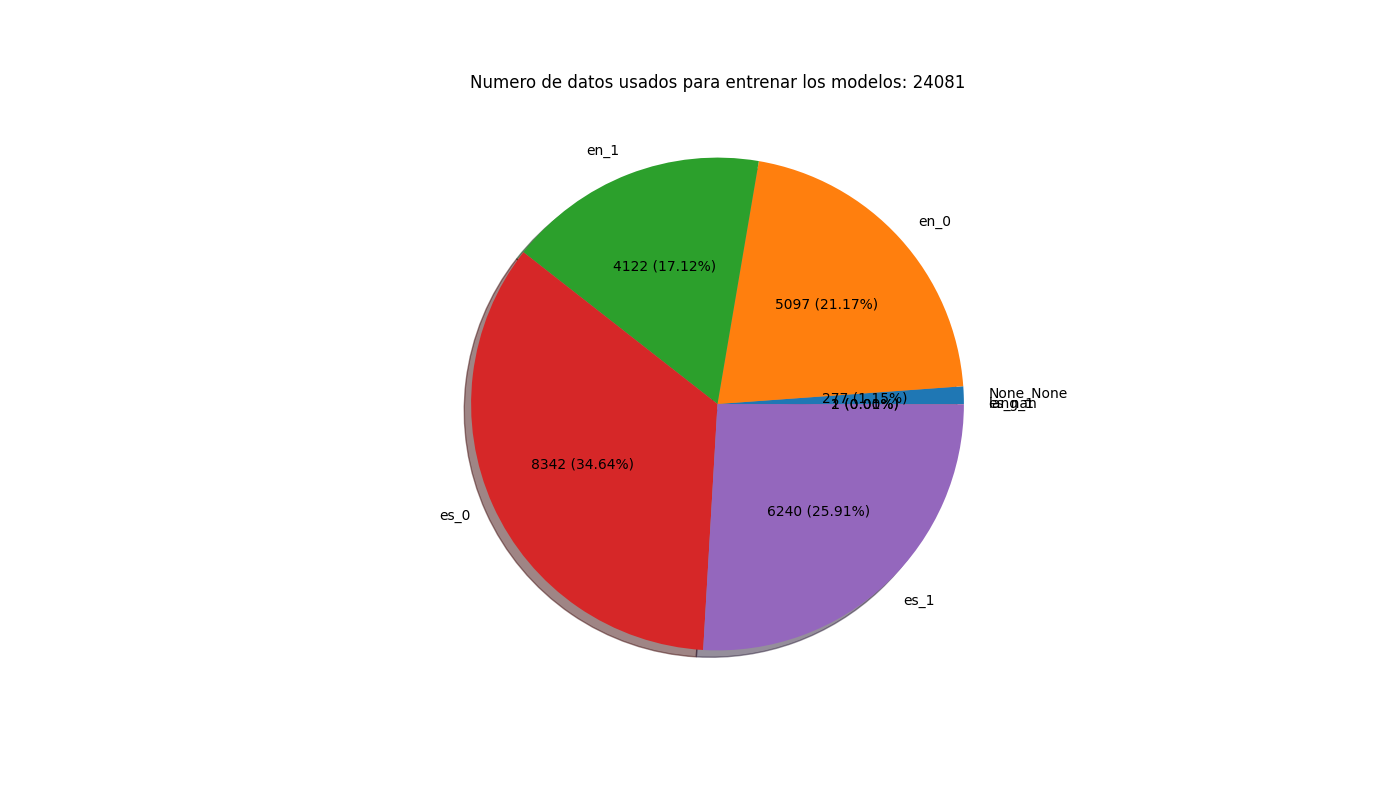
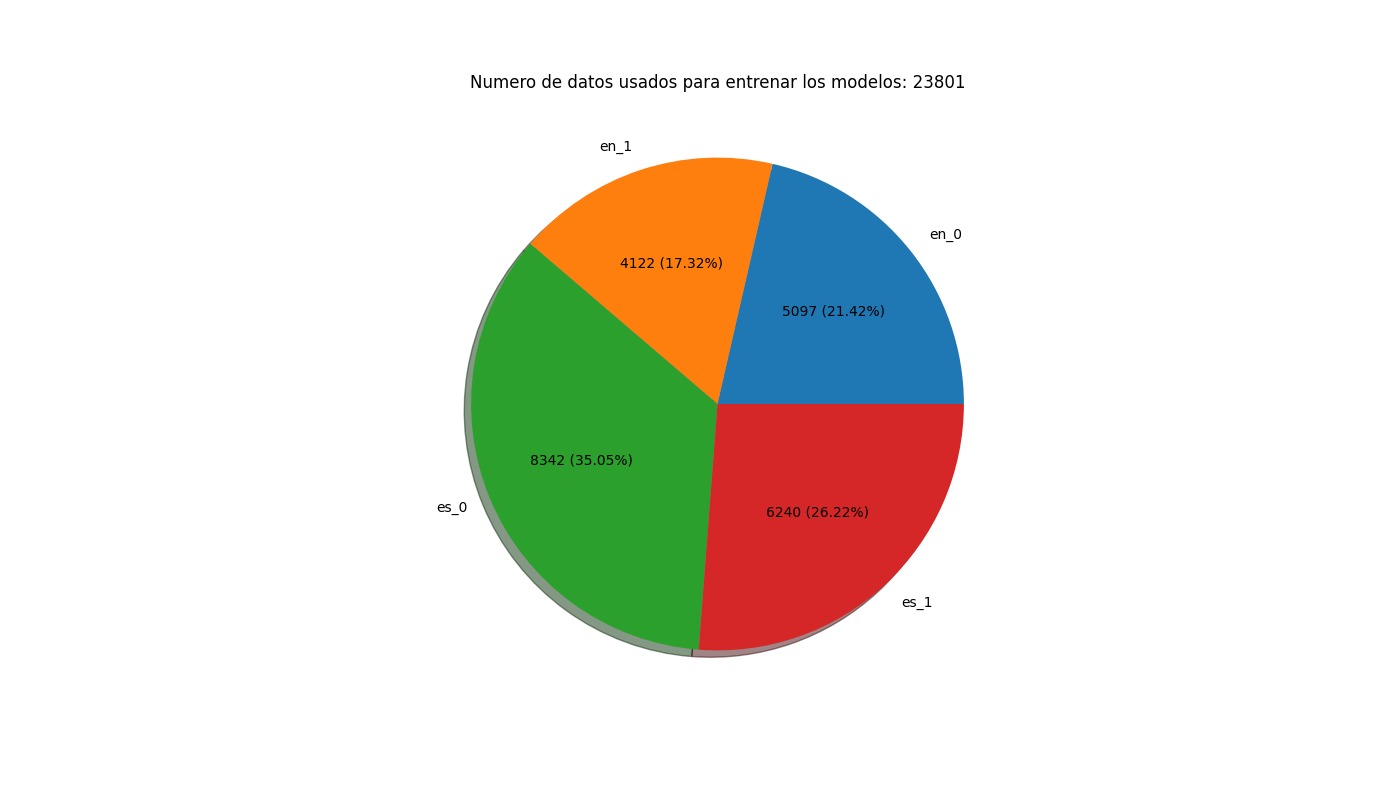
mejoras en la tecnica para balamcear datos

Changed region(s): [[0.3071, 0.1875, 0.7679, 0.8438], [0.645, 0.75, 0.6757, 0.7812], [0.645, 0.0938, 0.6757, 0.125]]

diff --git a/entrenamiento de modelos/cargar_df.py b/entrenamiento de modelos/cargar_df.py
@@ -62,23 +62,32 @@ def get_mourning_df(create_new_file, balance_data):
             )).strip()
         print("")
     mourning_df.drop_duplicates(subset=['text'], inplace=True)
+    mourning_df = mourning_df.loc[mourning_df['mourning'].isin(['1', '0'])]
+    mourning_df = mourning_df.loc[mourning_df['lang'].isin(['es', 'en'])]
+    mourning_df.reset_index(drop=True, inplace=True)
     mourning_df.to_csv(mourning_df_path, index=False, encoding="utf-8")
     if balance_data == 1:
         print("Balanceando datos")
-        mourning_df = mourning_df.loc[mourning_df['mourning'].isin(['1', '0'])]
-        mourning_df = mourning_df.loc[mourning_df['lang'].isin(['es', 'en'])]
-        min_len1 = int(min(mourning_df['mourning'].value_counts()))
+        mourning_df["Sello"] = 0
+        for i, row in mourning_df.iterrows():
+            sys.stdout.write(
+                "\rCreando sellos para balancear " + str(
+                    round(((i + 1) / (mourning_df.shape[0])) * 100, 2)
+                ) + "%"
+            )
+            sys.stdout.flush()
+            mourning_df.at[i, 'sello'] = str(mourning_df.at[i, 'lang']) + '_' + str(mourning_df.at[i, 'mourning'])
+        min_len1 = int(min(mourning_df['sello'].value_counts()))
+        print("")
         if (min_len1 % 2) != 0: min_len1 -= 1
-        df_0 = resample(mourning_df[mourning_df.mourning == '0'], replace=False, n_samples=min_len1, random_state=1)
-        df_1 = resample(mourning_df[mourning_df.mourning == '1'], replace=False, n_samples=min_len1, random_state=1)
-        mourning_df = pandas.concat([df_0, df_1])
-        min_len2 = int(min(mourning_df['lang'].value_counts()))
-        if (min_len2 % 2) != 0: min_len2 -= 1
-        df_2 = resample(mourning_df[mourning_df.lang == 'en'], replace=False, n_samples=min_len2, random_state=1)
-        df_3 = resample(mourning_df[mourning_df.lang == 'es'], replace=False, n_samples=min_len2, random_state=1)
-        mourning_df = pandas.concat([df_2, df_3])
+        df_0 = resample(mourning_df[mourning_df.sello == 'es_0'], replace=False, n_samples=min_len1, random_state=1)
+        df_1 = resample(mourning_df[mourning_df.sello == 'es_1'], replace=False, n_samples=min_len1, random_state=1)
+        df_2 = resample(mourning_df[mourning_df.sello == 'en_0'], replace=False, n_samples=min_len1, random_state=1)
+        df_3 = resample(mourning_df[mourning_df.sello == 'en_1'], replace=False, n_samples=min_len1, random_state=1)
+        mourning_df = pandas.concat([df_0, df_1, df_2, df_3])
         mourning_df.sort_values('lang', inplace=True)
         print("Datos entrgados")
+        mourning_df = mourning_df.filter(['text', 'lang', 'mourning'])
         mourning_df.reset_index(drop=True, inplace=True)
         return mourning_df
     elif balance_data == 0:
